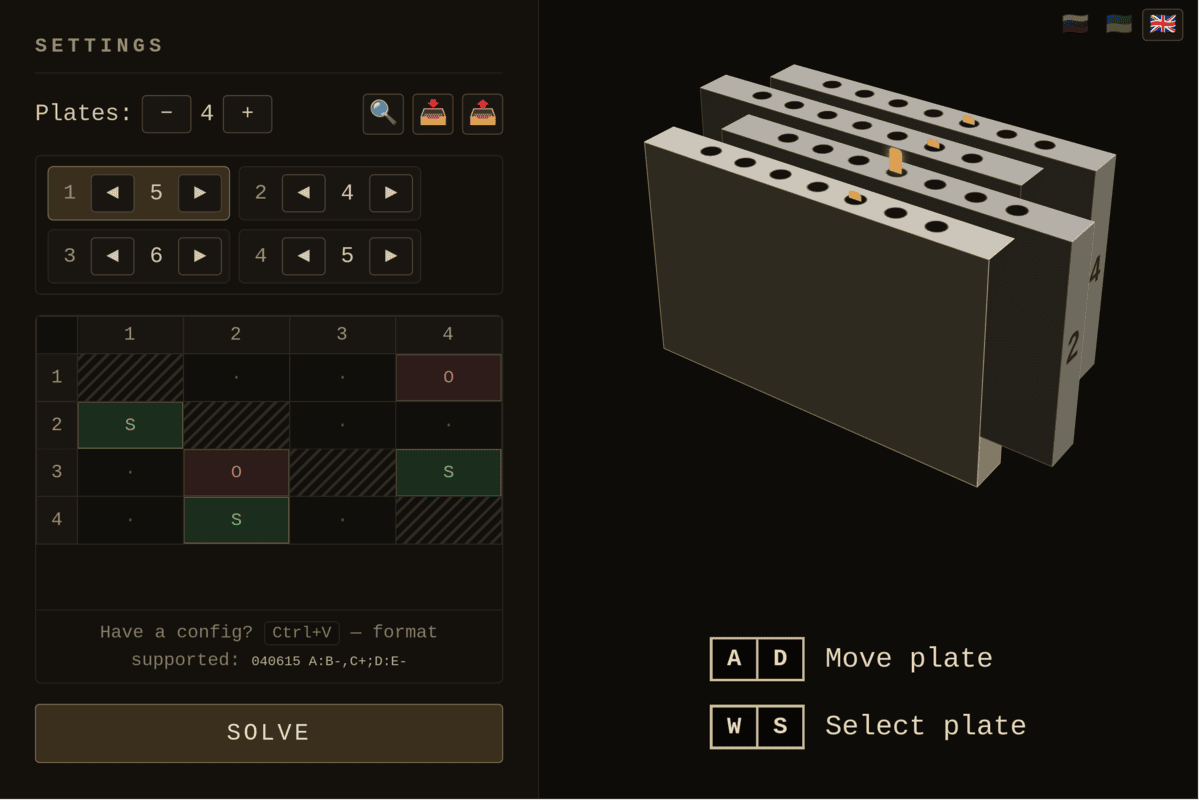
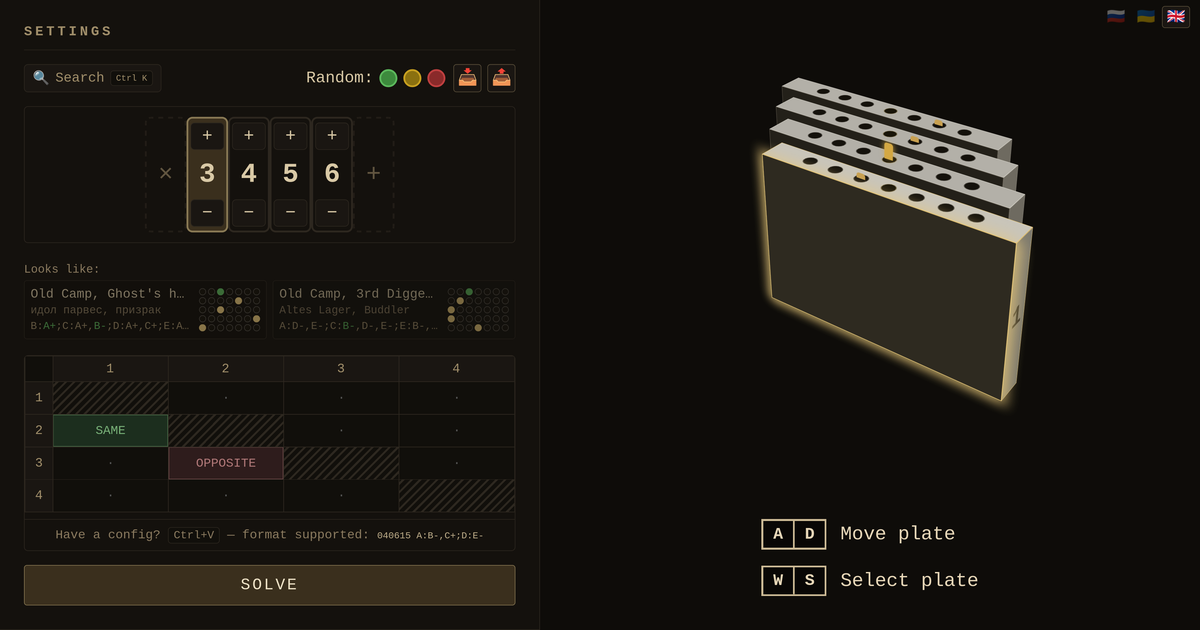
feat: richer OpenGraph/Twitter meta + 1200x630 preview
Add og:site_name, og:locale (+ en/uk alternates), og:image:width/height,
and og:image:alt / twitter:image:alt. Regenerate preview.png at the
standard 1200x630 OG ratio.

diff --git a/index.html b/index.html
@@ -9,14 +9,22 @@
   <link rel="icon" type="image/svg+xml" href="favicon.svg">
 
   <meta property="og:type" content="website">
+  <meta property="og:site_name" content="Gothic Lockpick Solver">
+  <meta property="og:locale" content="ru_RU">
+  <meta property="og:locale:alternate" content="en_US">
+  <meta property="og:locale:alternate" content="uk_UA">
   <meta property="og:title" content="Gothic Lockpick Solver">
   <meta property="og:description" content="Disc-lock solver for Gothic 1 Remake — instantly finds the minimal solution, plays it back step by step in 3D, and lets you search a database of real in-game chests.">
   <meta property="og:url" content="https://demetri0.github.io/gothic-lockpick/">
   <meta property="og:image" content="https://demetri0.github.io/gothic-lockpick/screenshots/preview.png">
+  <meta property="og:image:width" content="1200">
+  <meta property="og:image:height" content="630">
+  <meta property="og:image:alt" content="3D visualization of a Gothic disc lock with its solution played back step by step">
   <meta name="twitter:card" content="summary_large_image">
   <meta name="twitter:title" content="Gothic Lockpick Solver">
   <meta name="twitter:description" content="Disc-lock solver for Gothic 1 Remake — instantly finds the minimal solution, plays it back step by step in 3D, and lets you search a database of real in-game chests.">
   <meta name="twitter:image" content="https://demetri0.github.io/gothic-lockpick/screenshots/preview.png">
+  <meta name="twitter:image:alt" content="3D visualization of a Gothic disc lock with its solution played back step by step">
 
   <script src="https://cdn.jsdelivr.net/npm/fuse.js@7.0.0/dist/fuse.min.js"></script>
   <style>